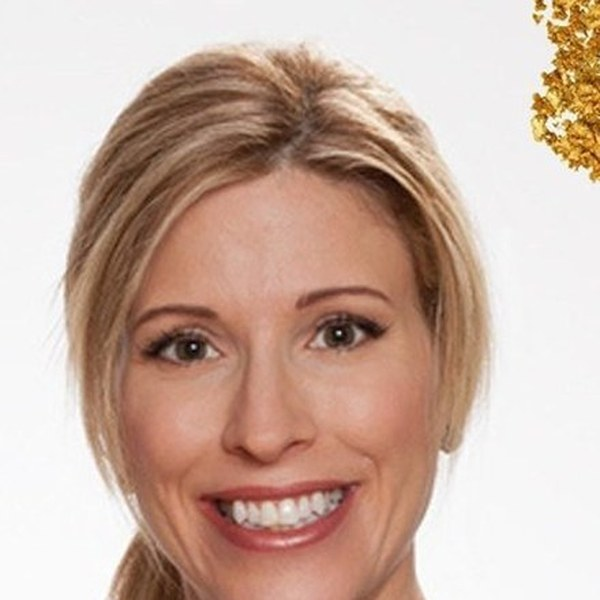
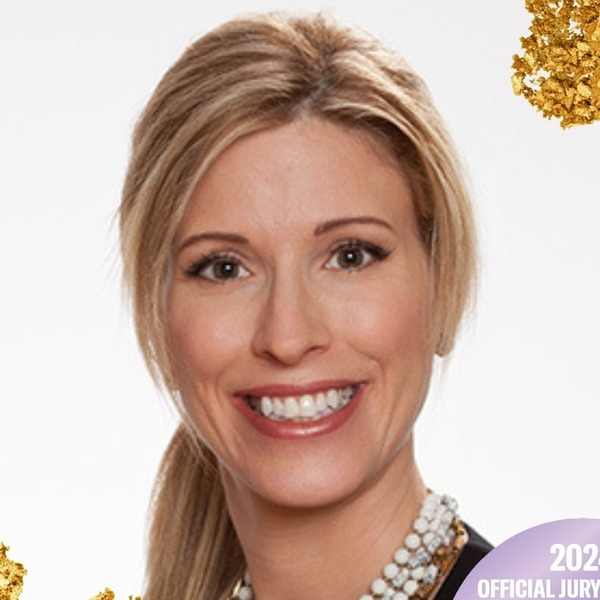
feat: add Eduardo photo, re-crop Angele + Fred for full face visibility
- Add Eduardo Esparza photo (was missing)
- Re-crop Angele Miller from high-res Cosmoprof original (chin was cut)
- Replace Fred Haas with higher-quality original crop
- Update page.tsx: Eduardo photo ref, fred-haas.jpg extension

diff --git a/src/app/team/page.tsx b/src/app/team/page.tsx
@@ -151,7 +151,7 @@ const CORE_TEAM = [
   },
   {
     name: 'Fred Haas PE',
-    photo: '/images/team/fred-haas.png',
+    photo: '/images/team/fred-haas.jpg',
     role: 'Civil Engineer',
     bio: '40+ year civil engineer and 20+ year owner of Sustainable Land Strategies. Specializes in land development, drainage studies, waste system design, entitlements, and permits for eco projects. Fred is the licensed PE leading all site infrastructure and MUD formation engineering for Abundancia.',
     expertise: ['Civil Engineering', 'Land Development', 'Drainage & Waste Design', 'Eco Project Permitting'],
@@ -181,7 +181,7 @@ const CORE_TEAM = [
 const PARTNERS = [
   {
     name: 'Eduardo Esparza',
-    photo: undefined,
+    photo: '/images/team/eduardo-esparza.jpg',
     org: 'RECODE Fund / Blue Dot',
     focus: 'Impact Investment',
     detail: '10+ years in SaaS and angel investing. Blue Dot Founder leading $30M in regenerative finance initiatives. Advisor to Mex30x30 Conservation. Keynote speaker at COP16, SXSW, and Davos. Eduardo connects Abundancia with mission-aligned impact capital and ESG-focused institutional investors.',
